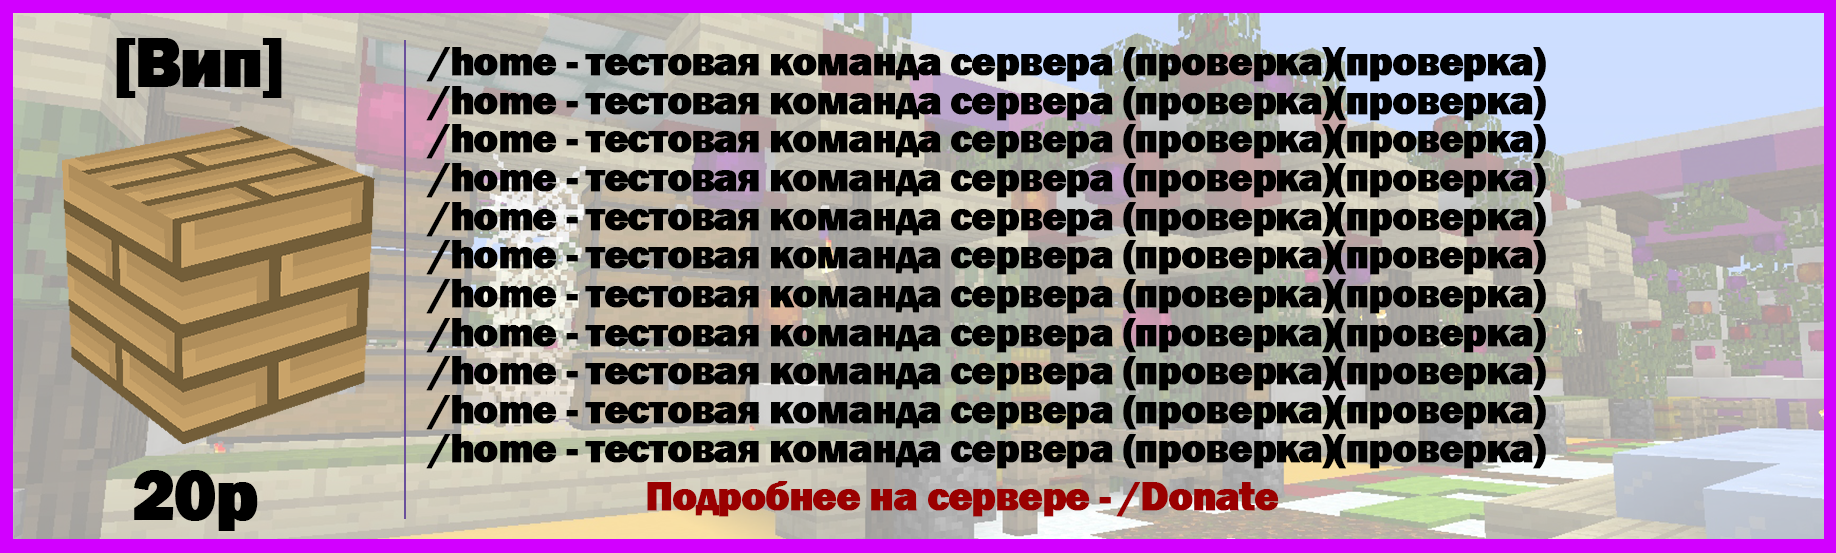
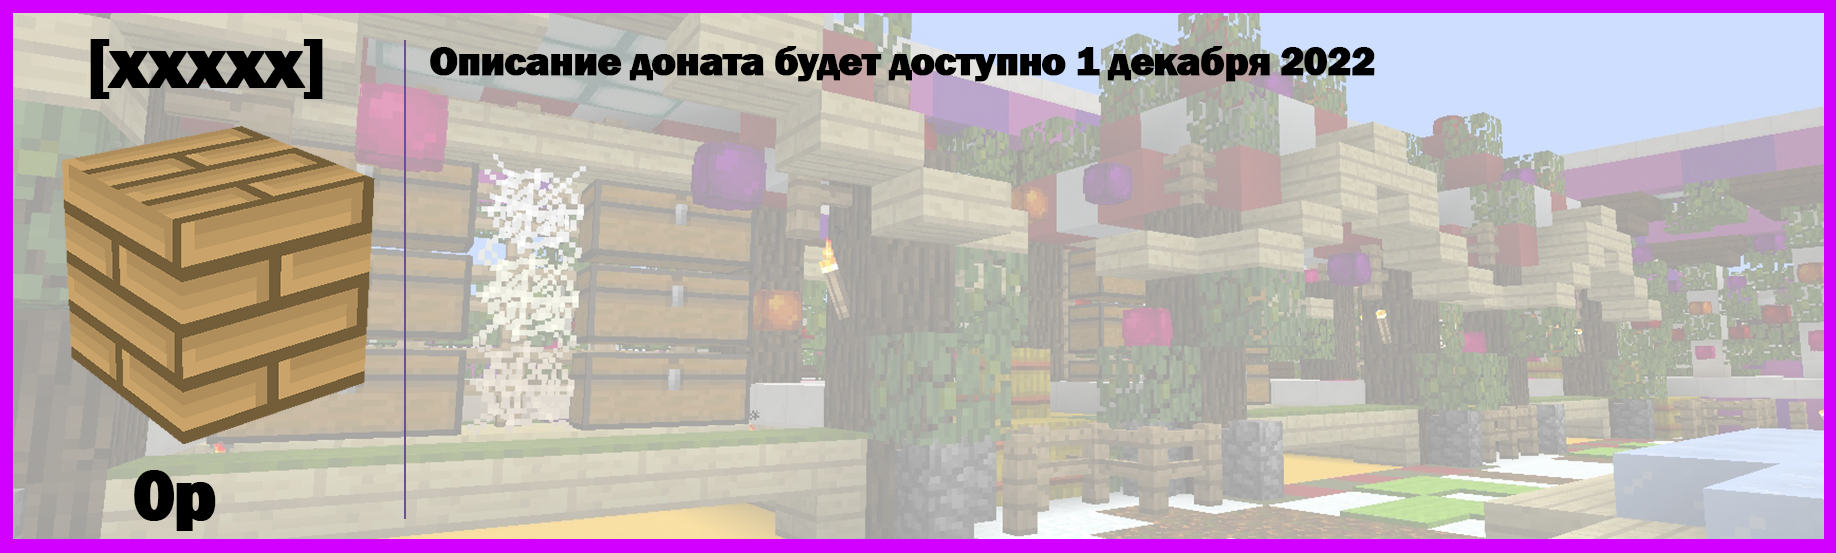
18.11.22

Changed region(s): [[0.2173, 0.0615, 0.8693, 0.953], [0.031, 0.0615, 0.1863, 0.1844], [0.0621, 0.83, 0.1552, 0.9837]]

diff --git a/index.html b/index.html
@@ -141,51 +141,9 @@ nav a:after {content: none;}
 
 <h4 align="center">
 <img src="vip.png" width="90%" height="auto" alt="вип">
-</h4>
+</h4><br><br><br>
 
-<h4 align="center">
-<img src="vip.png" width="90%" height="auto" alt="вип">
-</h4>
 
-<h4 align="center">
-<img src="vip.png" width="90%" height="auto" alt="вип">
-</h4>
-
-<h4 align="center">
-<img src="vip.png" width="90%" height="auto" alt="вип">
-</h4>
-
-<h4 align="center">
-<img src="vip.png" width="90%" height="auto" alt="вип">
-</h4>
-
-<h4 align="center">
-<img src="vip.png" width="90%" height="auto" alt="вип">
-</h4>
-
-<h4 align="center">
-<img src="vip.png" width="90%" height="auto" alt="вип">
-</h4>
-
-<h4 align="center">
-<img src="vip.png" width="90%" height="auto" alt="вип">
-</h4>
-
-<h4 align="center">
-<img src="vip.png" width="90%" height="auto" alt="вип">
-</h4>
-
-<h4 align="center">
-<img src="vip.png" width="90%" height="auto" alt="вип">
-</h4>
-
-<h4 align="center">
-<img src="vip.png" width="90%" height="auto" alt="вип">
-</h4>
-
-<h4 align="center">
-<img src="vip.png" width="90%" height="auto" alt="вип">
-</h4>
 
 
 
@@ -199,6 +157,8 @@ nav a:after {content: none;}
 
 <br><br><hr>
 <footer align="center">
+
+<script type="text/javascript" src="http://askm.me/counter.js"></script>
   <img src="nk.png" width="10%" height="auto">
   <p><small>Copyright © 2022 BoostMine</small></p>
  </footer>
